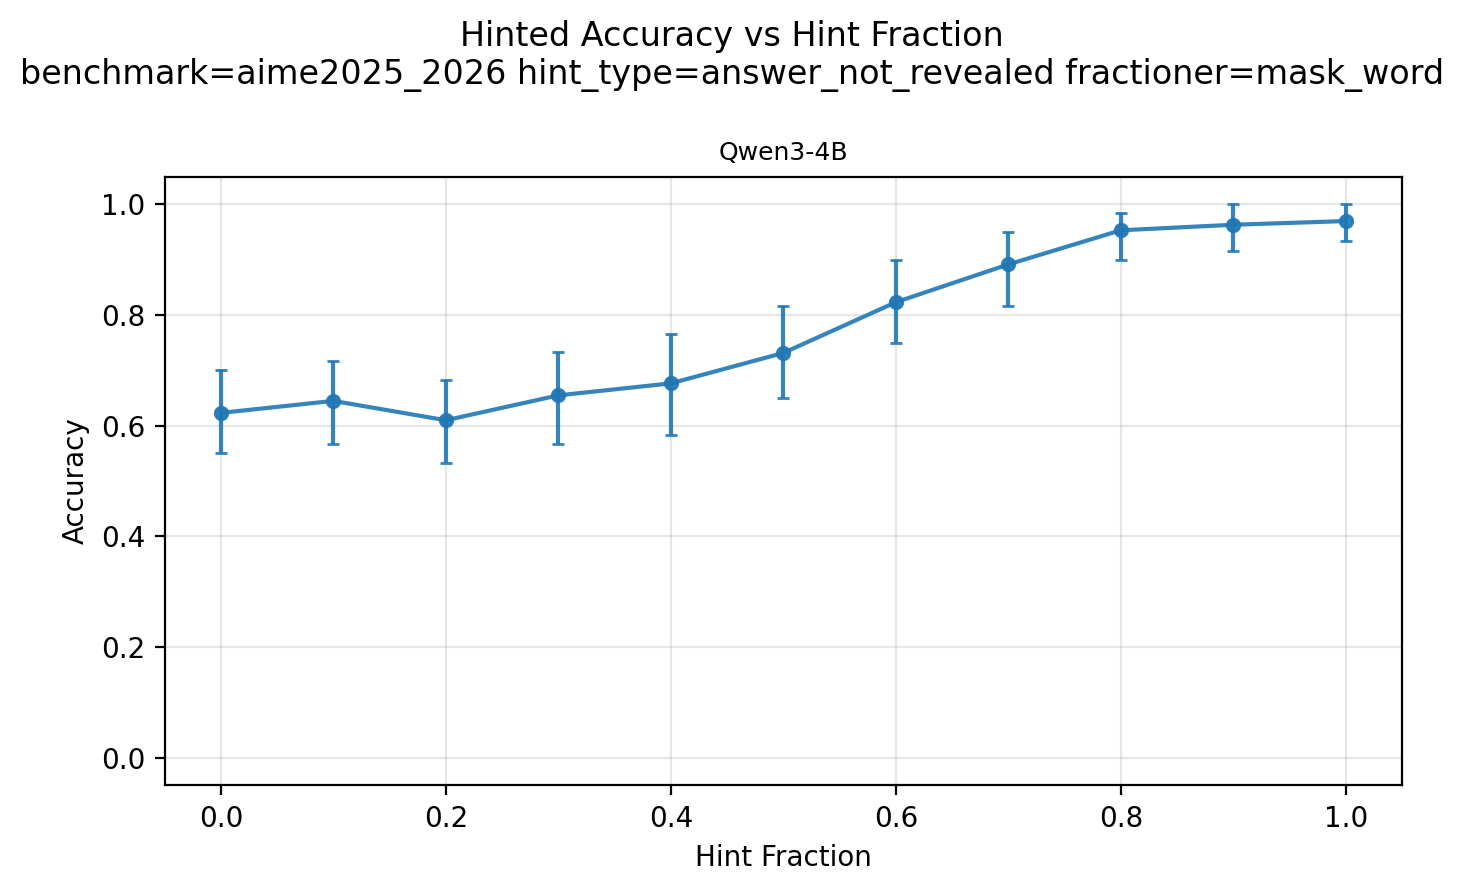
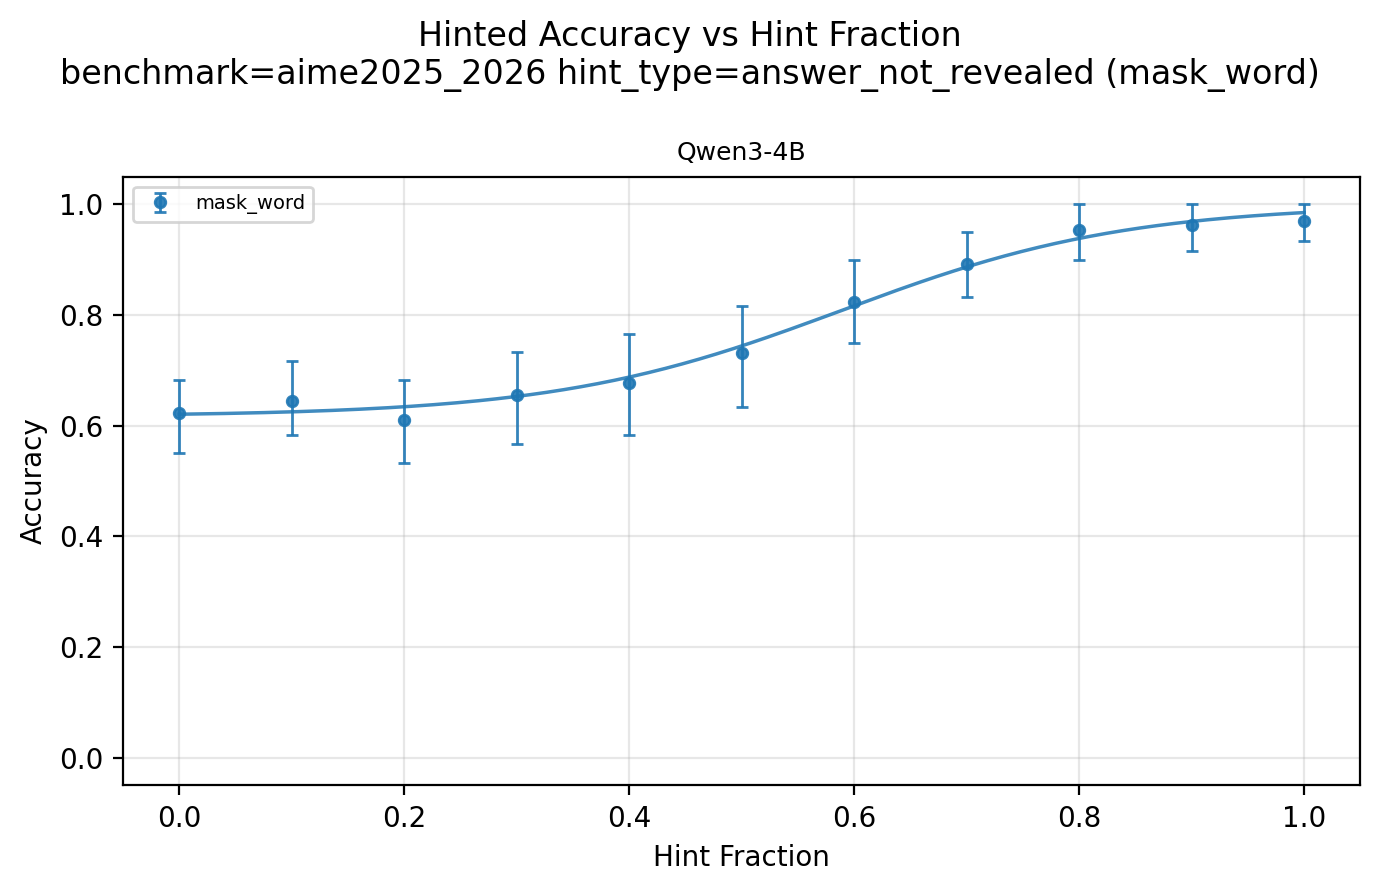
more plotting

diff --git a/runs/plot_hinted_accuracy_vs_hint.py b/runs/plot_hinted_accuracy_vs_hint.py
@@ -1,7 +1,6 @@
 from __future__ import annotations
 
 import argparse
-import csv
 import json
 import re
 from pathlib import Path
@@ -31,6 +30,17 @@ def _parse_args() -> argparse.Namespace:
     parser.add_argument("--benchmark", type=str, required=True)
     parser.add_argument("--hint-type", type=str, required=True)
     parser.add_argument("--model", type=str, default="all", help="Model name or 'all'.")
+    parser.add_argument(
+        "--fractioner",
+        type=str,
+        default=None,
+        help="Optional specific fractioner to plot. If omitted, use all complete fractioners.",
+    )
+    parser.add_argument(
+        "--show-values",
+        action="store_true",
+        help="Annotate plotted points with their mean accuracy values.",
+    )
     return parser.parse_args()
 
 
@@ -264,6 +274,7 @@ def _plot(
     *,
     fit_map: dict[tuple[str, str], dict[str, float]],
     output_png: Path,
+    show_values: bool,
     title: str,
 ) -> None:
     models = sorted({row["model"] for row in results})
@@ -301,12 +312,24 @@ def _plot(
                 yerr=yerr,
                 fmt="o",
                 alpha=0.9,
-                linewidth=0.0,
                 markersize=3.8,
                 capsize=2.0,
+                elinewidth=1.0,
+                capthick=1.0,
                 color=color,
                 label=fractioner,
             )
+            if show_values:
+                for x_i, y_i in zip(x, y):
+                    ax.annotate(
+                        f"{y_i:.2f}",
+                        (float(x_i), float(y_i)),
+                        xytext=(4, 4),
+                        textcoords="offset points",
+                        fontsize=6,
+                        color=color,
+                        alpha=0.9,
+                    )
 
             fit_key = (str(model), str(fractioner))
             fit = fit_map.get(fit_key)
@@ -359,11 +382,14 @@ def main() -> None:
     expected_fraction_set = {float(f"{value:.6f}") for value in EXPECTED_FRACTIONS}
 
     for model in models_to_plot:
-        fractioners = _discover_fractioners(
-            benchmark=args.benchmark,
-            model=model,
-            hint_type=args.hint_type,
-        )
+        if args.fractioner is not None:
+            fractioners = [args.fractioner]
+        else:
+            fractioners = _discover_fractioners(
+                benchmark=args.benchmark,
+                model=model,
+                hint_type=args.hint_type,
+            )
         if not fractioners:
             print(
                 f"[plot_hinted_accuracy_vs_hint][WARN] no fractioners for "
@@ -379,32 +405,38 @@ def main() -> None:
                 fractioner=fractioner,
             )
             if not fraction_files:
-                continue
-
-            by_fraction = {float(f"{frac:.6f}"): path for frac, path in fraction_files}
-            available_fraction_set = set(by_fraction.keys())
-            missing = sorted(expected_fraction_set - available_fraction_set)
-            if missing:
                 print(
-                    f"[plot_hinted_accuracy_vs_hint][WARN] skipping incomplete fractioner "
-                    f"model={model} fractioner={fractioner} missing_fractions={missing}"
+                    f"[plot_hinted_accuracy_vs_hint][WARN] no files for "
+                    f"model={model} fractioner={fractioner}"
                 )
                 continue
 
             fraction_rows: list[dict[str, Any]] = []
-            usable = True
-            for hint_fraction in EXPECTED_FRACTIONS:
-                key = float(f"{hint_fraction:.6f}")
-                path = by_fraction[key]
+            usable = False
+
+            if args.fractioner is None:
+                by_fraction = {float(f"{frac:.6f}"): path for frac, path in fraction_files}
+                available_fraction_set = set(by_fraction.keys())
+                missing = sorted(expected_fraction_set - available_fraction_set)
+                if missing:
+                    print(
+                        f"[plot_hinted_accuracy_vs_hint][WARN] skipping incomplete fractioner "
+                        f"model={model} fractioner={fractioner} missing_fractions={missing}"
+                    )
+                    continue
+                fractions_to_use = [(float(h), by_fraction[float(f"{h:.6f}")]) for h in EXPECTED_FRACTIONS]
+            else:
+                fractions_to_use = [(float(hint_fraction), path) for hint_fraction, path in fraction_files]
+
+            for hint_fraction, path in fractions_to_use:
                 stats = _collect_stats_for_fraction(path=path, rng=rng)
                 if stats is None:
                     print(
-                        f"[plot_hinted_accuracy_vs_hint][WARN] skipping fractioner due to "
+                        f"[plot_hinted_accuracy_vs_hint][WARN] skipping fraction point due to "
                         f"unusable fraction rows model={model} fractioner={fractioner} "
                         f"fraction={hint_fraction} path={path}"
                     )
-                    usable = False
-                    break
+                    continue
                 fraction_rows.append(
                     {
                         "model": model,
@@ -414,6 +446,7 @@ def main() -> None:
                         "path": str(path),
                     }
                 )
+                usable = True
 
             if not usable:
                 continue
@@ -422,6 +455,14 @@ def main() -> None:
             print(
                 f"[plot_hinted_accuracy_vs_hint] included model={model} "
                 f"fractioner={fractioner} n_points={len(fraction_rows)}"
+            )
+            means_text = ", ".join(
+                f"{float(row['hint_fraction']):.1f}:{float(row['accuracy']):.4f}"
+                for row in fraction_rows
+            )
+            print(
+                f"[plot_hinted_accuracy_vs_hint] means model={model} "
+                f"fractioner={fractioner} {means_text}"
             )
 
     if not rows:
@@ -436,7 +477,6 @@ def main() -> None:
         key = (str(row["model"]), str(row["fractioner"]))
         series_map.setdefault(key, []).append(row)
 
-    fit_rows: list[dict[str, Any]] = []
     fit_map: dict[tuple[str, str], dict[str, float]] = {}
     for key, series_rows in sorted(series_map.items()):
         model, fractioner = key
@@ -447,13 +487,6 @@ def main() -> None:
                 f"model={model} fractioner={fractioner}"
             )
             continue
-        fit_row = {
-            "model": model,
-            "fractioner": fractioner,
-            "n_points": int(len(series_rows)),
-            **fit,
-        }
-        fit_rows.append(fit_row)
         fit_map[key] = fit
         print(
             f"[plot_hinted_accuracy_vs_hint] fit model={model} fractioner={fractioner} "
@@ -463,87 +496,58 @@ def main() -> None:
 
     stem = (
         f"{_safe_component(args.benchmark)}__{_safe_component(args.hint_type)}__"
-        f"all_complete_fractioners__{_safe_component(args.model)}"
+        f"{_safe_component(args.fractioner) if args.fractioner is not None else 'all_complete_fractioners'}__"
+        f"{_safe_component(args.model)}"
     )
     PLOTS_ROOT.mkdir(parents=True, exist_ok=True)
-    csv_path = PLOTS_ROOT / f"{stem}__bootstrap.csv"
-    fit_csv_path = PLOTS_ROOT / f"{stem}__sigmoid_fits.csv"
-    json_path = PLOTS_ROOT / f"{stem}__bootstrap.json"
+    means_json_path = PLOTS_ROOT / f"{stem}__means_percent.json"
+    summary_json_path = PLOTS_ROOT / f"{stem}__summary_percent.json"
     png_path = PLOTS_ROOT / f"{stem}__bootstrap.png"
 
-    with open(csv_path, "w", newline="", encoding="utf-8") as f:
-        writer = csv.DictWriter(
-            f,
-            fieldnames=[
-                "model",
-                "fractioner",
-                "hint_fraction",
-                "accuracy",
-                "ci_low",
-                "ci_high",
-                "n_samples",
-                "n_rollouts",
-                "rows_total",
-                "rows_with_known_label",
-                "rows_without_known_label",
-                "path",
-            ],
-        )
-        writer.writeheader()
-        writer.writerows(rows_sorted)
+    means_payload: dict[str, dict[str, dict[str, float]]] = {}
+    summary_payload: dict[str, dict[str, dict[str, dict[str, float]]]] = {}
+    for (model, fractioner), series_rows in sorted(series_map.items()):
+        means_payload.setdefault(model, {})
+        summary_payload.setdefault(model, {})
+        means_payload[model][fractioner] = {
+            f"{float(row['hint_fraction']):.1f}": round(100.0 * float(row["accuracy"]), 1)
+            for row in sorted(series_rows, key=lambda row: float(row["hint_fraction"]))
+        }
+        summary_payload[model][fractioner] = {
+            f"{float(row['hint_fraction']):.1f}": {
+                "mean": round(100.0 * float(row["accuracy"]), 1),
+                "ci_low": round(100.0 * float(row["ci_low"]), 1),
+                "ci_high": round(100.0 * float(row["ci_high"]), 1),
+            }
+            for row in sorted(series_rows, key=lambda row: float(row["hint_fraction"]))
+        }
 
-    with open(fit_csv_path, "w", newline="", encoding="utf-8") as f:
-        writer = csv.DictWriter(
-            f,
-            fieldnames=[
-                "model",
-                "fractioner",
-                "n_points",
-                "sigmoid_lower",
-                "sigmoid_slope",
-                "sigmoid_bias",
-                "sigmoid_midpoint",
-                "sigmoid_rmse",
-            ],
-        )
-        writer.writeheader()
-        writer.writerows(sorted(fit_rows, key=lambda r: (str(r["model"]), str(r["fractioner"]))))
+    with open(means_json_path, "w", encoding="utf-8") as f:
+        json.dump(means_payload, f, indent=2, sort_keys=True)
+        f.write("\n")
 
-    with open(json_path, "w", encoding="utf-8") as f:
-        json.dump(
-            {
-                "benchmark": args.benchmark,
-                "hint_type": args.hint_type,
-                "fractioners_mode": "all_complete",
-                "model": args.model,
-                "n_bootstrap": N_BOOTSTRAP,
-                "random_seed": RANDOM_SEED,
-                "rows": rows_sorted,
-                "sigmoid_fits": fit_rows,
-            },
-            f,
-            ensure_ascii=False,
-            indent=2,
-        )
+    with open(summary_json_path, "w", encoding="utf-8") as f:
+        json.dump(summary_payload, f, indent=2, sort_keys=True)
+        f.write("\n")
 
     _plot(
         rows_sorted,
         fit_map=fit_map,
         output_png=png_path,
+        show_values=args.show_values,
         title=(
             f"Hinted Accuracy vs Hint Fraction\n"
             f"benchmark={args.benchmark} hint_type={args.hint_type} "
-            f"(all complete fractioners)"
+            f"({args.fractioner if args.fractioner is not None else 'all complete fractioners'})"
         ),
     )
 
-    print(f"[plot_hinted_accuracy_vs_hint] wrote_csv={csv_path}")
-    print(f"[plot_hinted_accuracy_vs_hint] wrote_fit_csv={fit_csv_path}")
-    print(f"[plot_hinted_accuracy_vs_hint] wrote_json={json_path}")
+    print(f"[plot_hinted_accuracy_vs_hint] wrote_means_json={means_json_path}")
+    print(f"[plot_hinted_accuracy_vs_hint] wrote_summary_json={summary_json_path}")
     print(f"[plot_hinted_accuracy_vs_hint] wrote_plot={png_path}")
 
 
 if __name__ == "__main__":
-    # python -m runs.plot_hinted_accuracy_vs_hint --benchmark aime2025_2026 --hint-type answer_not_revealed --model Qwen3-4B
     # python -m runs.plot_hinted_accuracy_vs_hint --benchmark aime2025_2026 --hint-type answer_not_revealed
+    # python -m runs.plot_hinted_accuracy_vs_hint --benchmark aime2025_2026 --hint-type answer_not_revealed --fractioner mask_word
     main()
